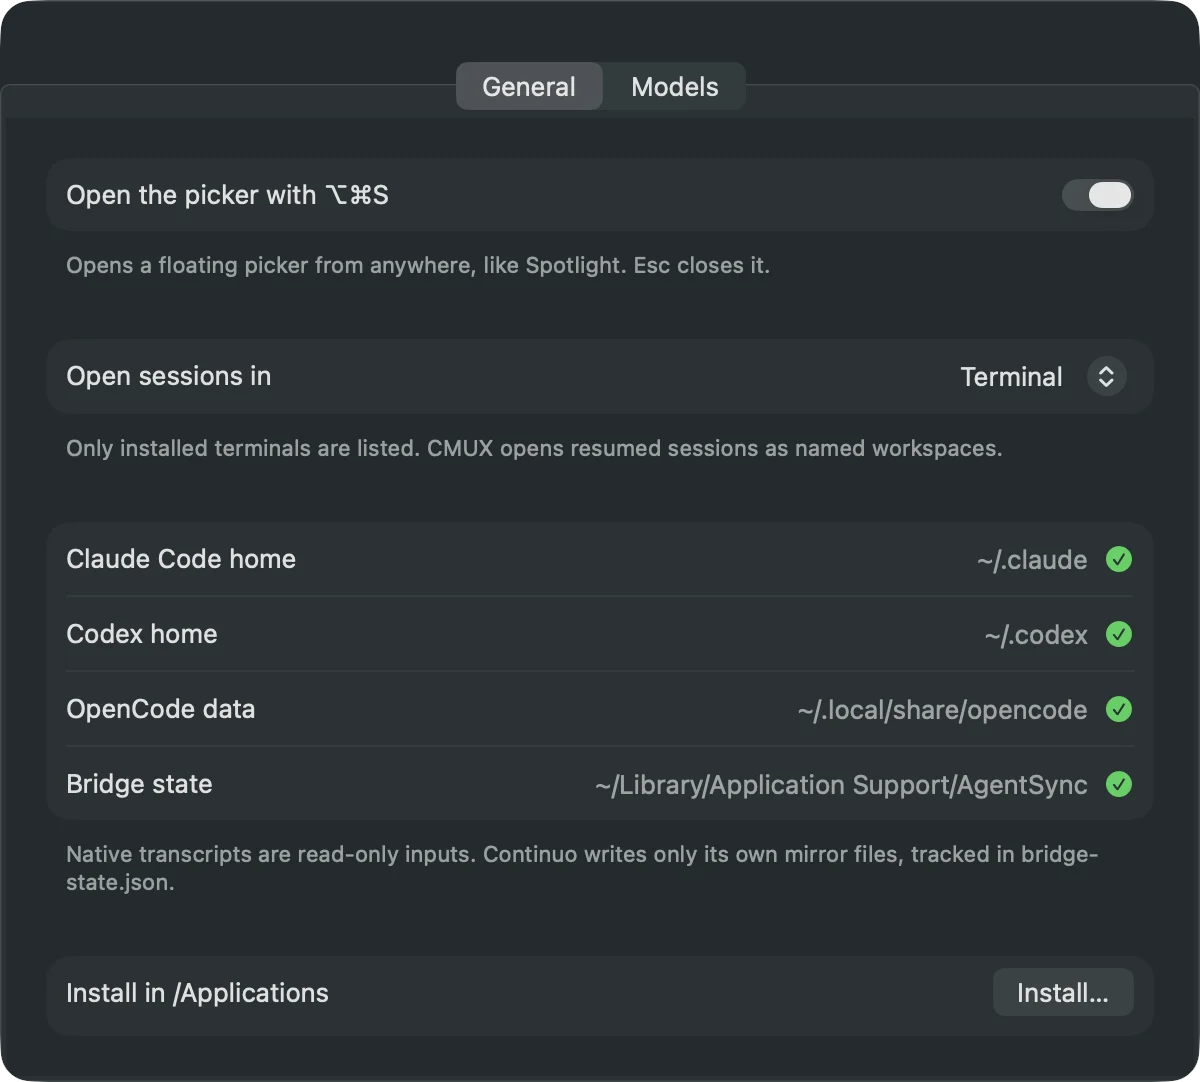
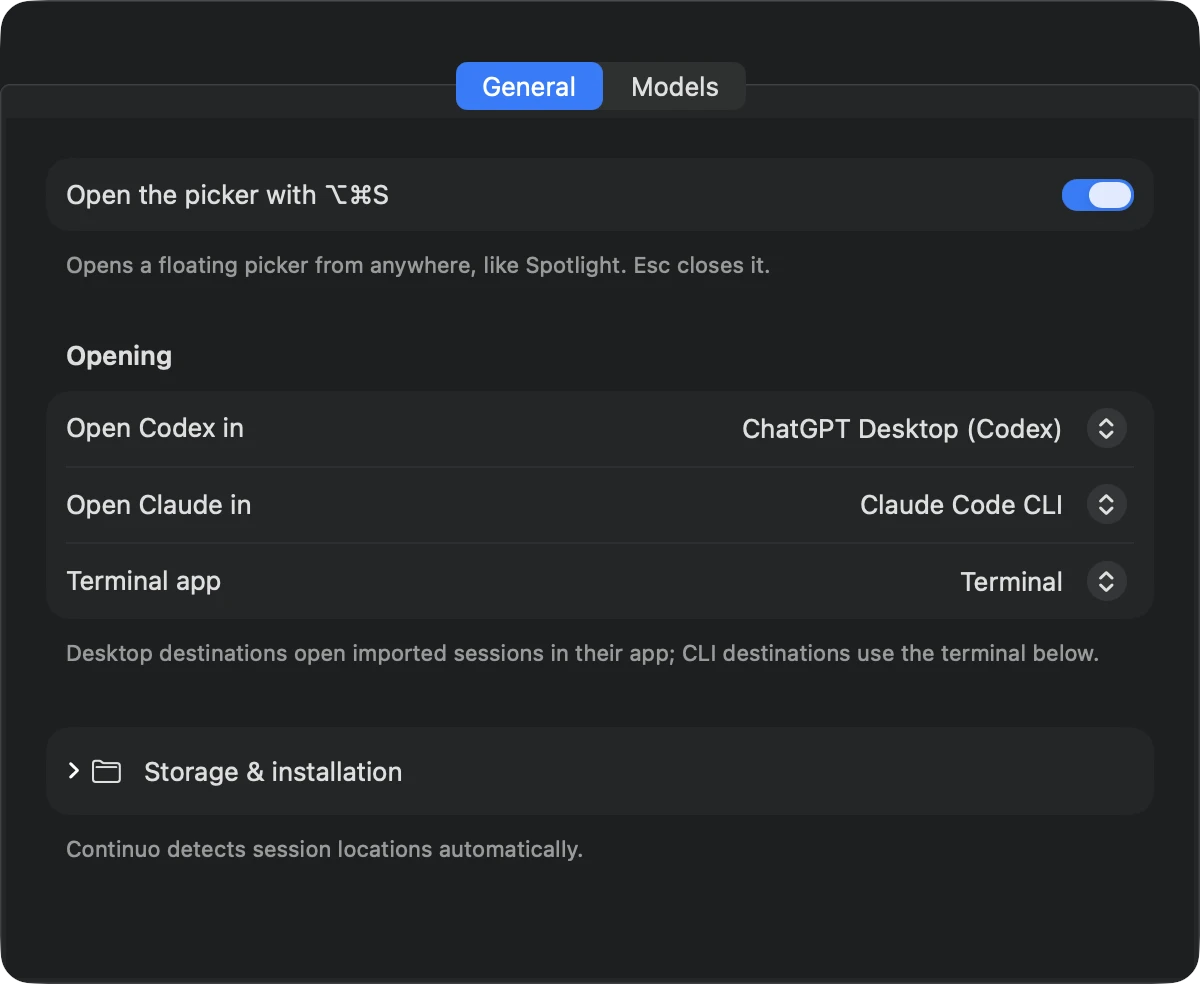
docs: refresh settings screenshot

diff --git a/Sources/AgentSyncApp/Screenshots.swift b/Sources/AgentSyncApp/Screenshots.swift
@@ -33,6 +33,10 @@ enum Screenshots {
         UserDefaults.standard.set("~/.codex", forKey: Prefs.codexHomeKey)
         UserDefaults.standard.set("~/.local/share/opencode", forKey: Prefs.opencodeHomeKey)
         UserDefaults.standard.set("~/Library/Application Support/AgentSync", forKey: Prefs.stateDirectoryKey)
+        UserDefaults.standard.set(
+            CodexLaunchDestination.chatGPTDesktop.rawValue,
+            forKey: Prefs.codexLaunchDestinationKey
+        )
 
         model.sessions = demoSessions()
         model.observedModels = [

diff --git a/README.md b/README.md
@@ -34,7 +34,7 @@ Settings lets you choose where Codex and Claude sessions open, select a terminal
 Continuo checks GitHub Releases for cryptographically signed updates using Sparkle. You can check manually from Settings; Sparkle offers background checks using its standard macOS opt-in prompt.
 
 <p align="center">
-  <img src="docs/screenshots/settings.webp" width="520" alt="Continuo settings: hotkey, session destination, and agent home locations">
+  <img src="docs/screenshots/settings.webp" width="520" alt="Continuo settings: hotkey, launch destinations, terminal app, and storage controls">
 </p>
 
 ### Supported session destinations